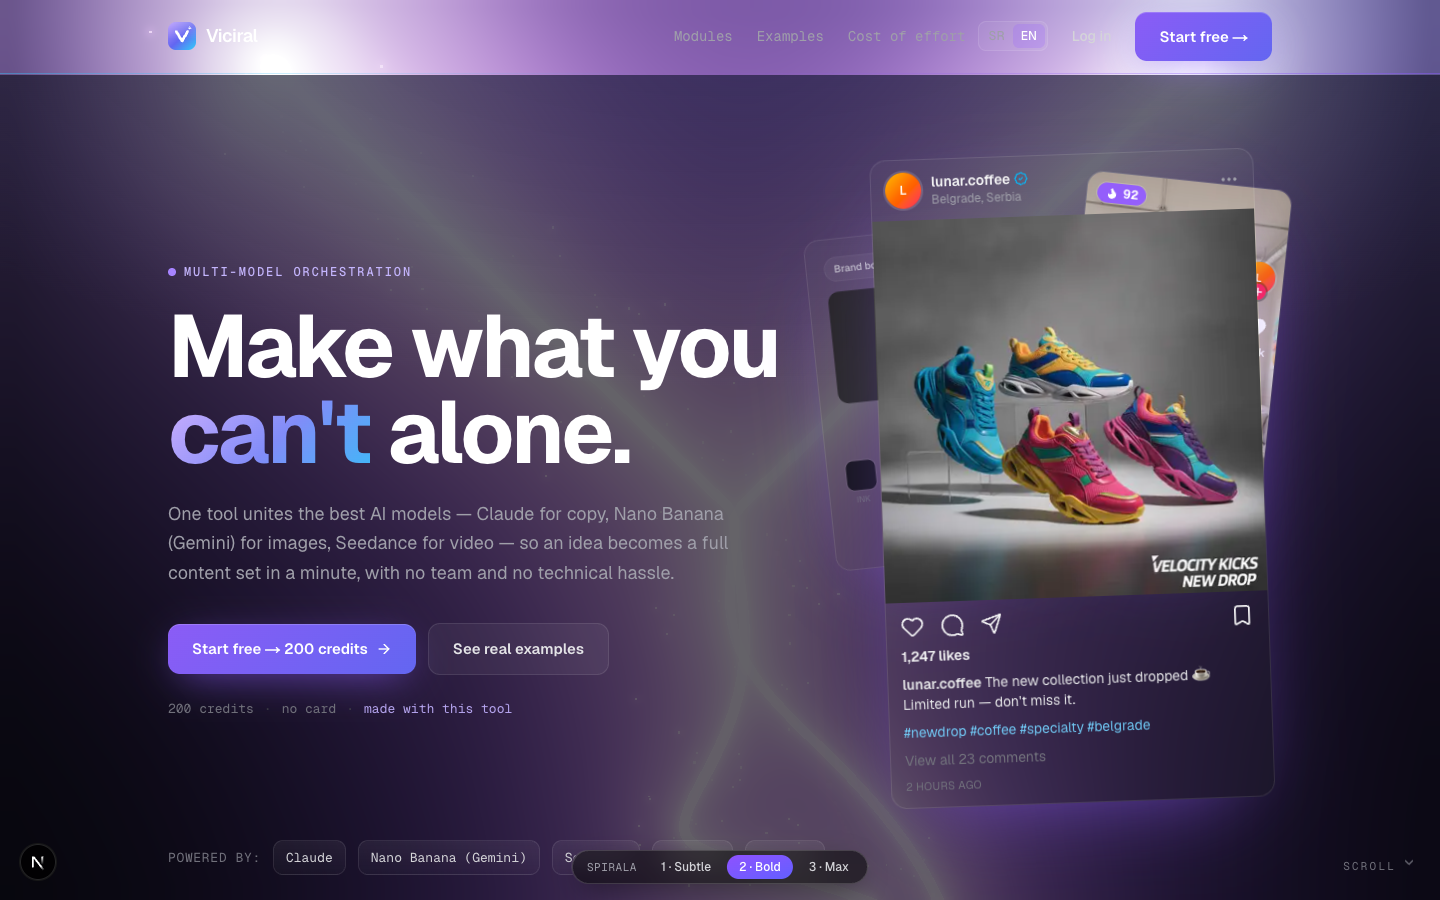
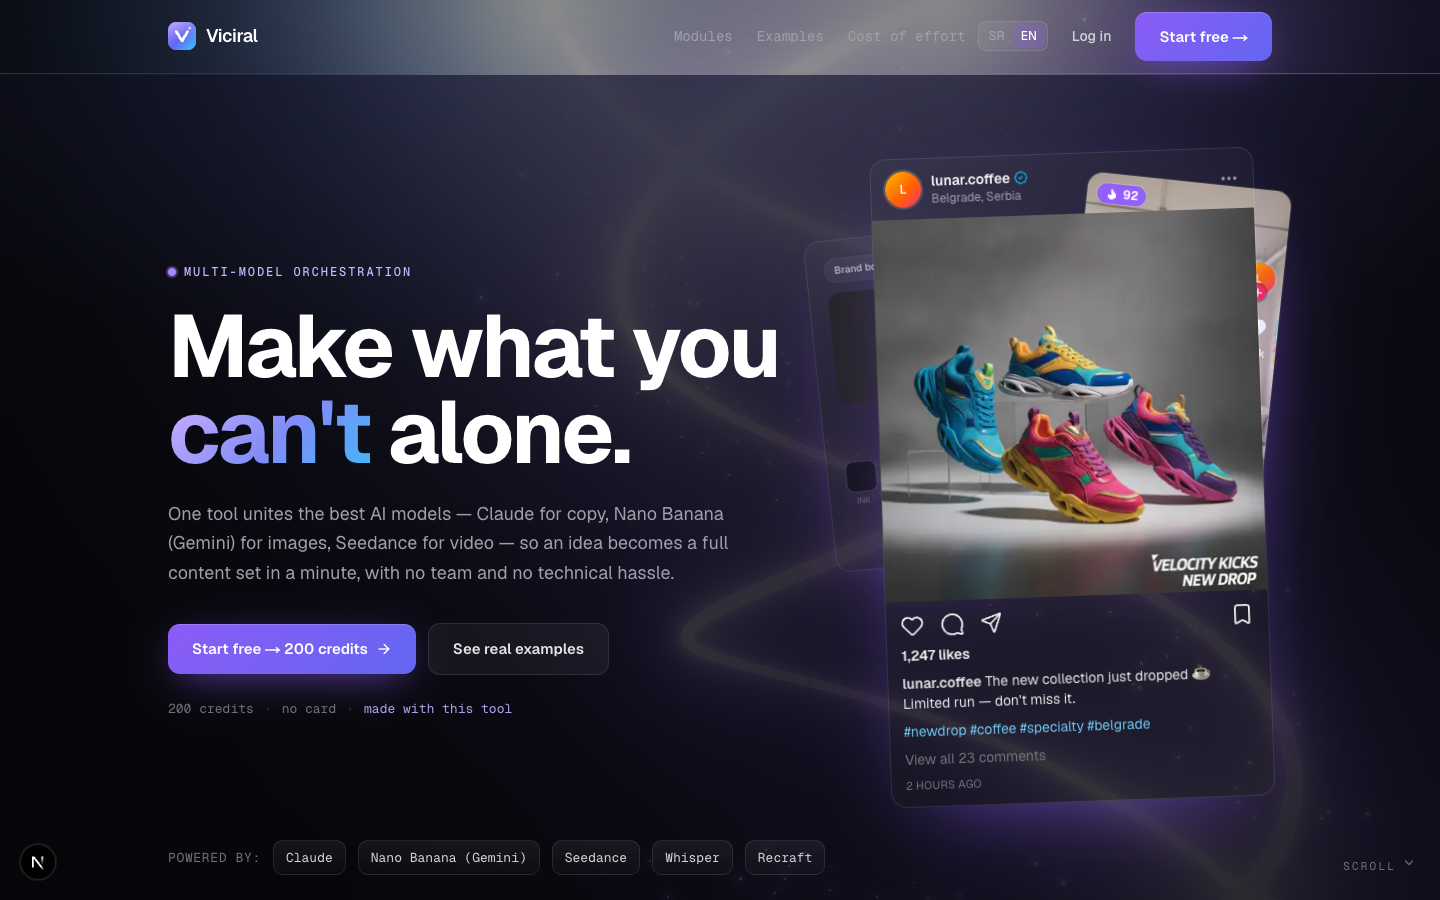
mobile responsivnes fix

diff --git a/components/spiral-canvas.tsx b/components/spiral-canvas.tsx
@@ -10,64 +10,37 @@ import { OutputPass } from "three/examples/jsm/postprocessing/OutputPass.js";
 
 export type SpiralMode = 1 | 2 | 3;
 
-/** Prominence presets driven by the on-page switcher. */
+/** Prominence presets. The spiral renders behind the content and glows through. */
 const MODES: Record<SpiralMode, { bloom: { s: number; r: number }; bright: number }> = {
-  1: { bloom: { s: 1.0, r: 0.7 }, bright: 0.7 }, // subtle accent behind content
-  2: { bloom: { s: 1.7, r: 0.9 }, bright: 1.15 }, // bold, still behind content
-  3: { bloom: { s: 1.7, r: 0.85 }, bright: 1.3 }, // max — rendered in front (screen blend)
+  1: { bloom: { s: 0.9, r: 0.7 }, bright: 0.62 }, // subtle accent
+  2: { bloom: { s: 1.25, r: 0.82 }, bright: 0.8 }, // bold (kept off the white-clip knee so text reads)
+  3: { bloom: { s: 1.6, r: 0.9 }, bright: 1.05 }, // max
 };
 
 const LENGTH = 4800;
+const TOP_Y = 260; // where the top of the helix sits at scroll 0
 const RADIUS = 158;
 const SWAY = 245;
 const COILS = 13;
 const RADIAL = 12;
 const TUBULAR = 1100;
 
-const C_A = new THREE.Color("#c084fc");
+const C_A = new THREE.Color("#a78bfa");
 const C_B = new THREE.Color("#6366f1");
-const C_C = new THREE.Color("#22d3ee");
+const C_C = new THREE.Color("#38bdf8");
 
-// The two strands trace the two arms of the logo "V" at the top, meet at the
-// vertex, then unspool out of it into the helix below.
-const V_END = 0.1; // fraction of the strand that draws the V
-const V_W = 300; // half-width of the V (arm spread — wide so the arms reach past the hero copy)
-const V_TOP = 250; // y of the arm tops (high, above the headline)
-const V_BOT = -40; // y of the shared vertex (near centre)
-
-function smoothstep(e0: number, e1: number, x: number) {
-  const t = Math.min(1, Math.max(0, (x - e0) / (e1 - e0)));
-  return t * t * (3 - 2 * t);
-}
-
-function buildStrand(tubeRadius: number, phase: number) {
+// A flowing double-helix that descends the page (behind the content). Two strands
+// at opposite phases intertwine; the group translates on scroll so you travel down it.
+function buildStrand(phase: number, tubeRadius: number) {
   const N = 900;
-  const sign = phase < 0.1 ? -1 : 1; // strand A = left arm, strand B = right arm
   const pts: THREE.Vector3[] = [];
   for (let i = 0; i <= N; i++) {
-    const tn = i / N;
-    let x: number;
-    let y: number;
-    let z: number;
-    if (tn < V_END) {
-      // logo "V": straight arm from the top corner down to the shared vertex (0, V_BOT, 0)
-      const k = tn / V_END;
-      x = sign * V_W * (1 - k);
-      y = V_TOP - (V_TOP - V_BOT) * k;
-      z = 0;
-    } else {
-      // helix unspooling out of the vertex (radius/sway grow from 0 so it blossoms smoothly)
-      const u = (tn - V_END) / (1 - V_END);
-      const ramp = smoothstep(0, 0.08, u);
-      const ang = u * COILS * Math.PI * 2 + phase;
-      const r = RADIUS * (0.7 + 0.5 * Math.sin(u * Math.PI * 2.2)) * ramp;
-      const cx = (Math.sin(u * Math.PI * 1.8) * SWAY + Math.sin(u * Math.PI * 7) * 18) * ramp;
-      const cz = Math.cos(u * Math.PI * 1.3) * 60 * ramp;
-      x = cx + Math.cos(ang) * r;
-      y = V_BOT - u * LENGTH;
-      z = cz + Math.sin(ang) * r;
-    }
-    pts.push(new THREE.Vector3(x, y, z));
+    const u = i / N;
+    const ang = u * COILS * Math.PI * 2 + phase;
+    const r = RADIUS * (0.7 + 0.5 * Math.sin(u * Math.PI * 2.2));
+    const cx = Math.sin(u * Math.PI * 1.8) * SWAY + Math.sin(u * Math.PI * 7) * 18;
+    const cz = Math.cos(u * Math.PI * 1.3) * 60;
+    pts.push(new THREE.Vector3(cx + Math.cos(ang) * r, TOP_Y - u * LENGTH, cz + Math.sin(ang) * r));
   }
   const curve = new THREE.CatmullRomCurve3(pts);
   const geo = new THREE.TubeGeometry(curve, TUBULAR, tubeRadius, RADIAL, false);
@@ -103,8 +76,8 @@ const VERT = /* glsl */ `
   }
 `;
 
-// Flowing-energy: gradient along the tube + bright pulses streaming down it + a
-// fresnel rim + a comet around the scroll head. HDR (values > 1) so bloom lights it.
+// Flowing-energy: gradient along the tube + streaming pulses + a fresnel rim + a
+// comet around the scroll head. HDR (values > 1) so bloom lights it up.
 const FRAG = /* glsl */ `
   uniform float uTime;
   uniform float uHead;
@@ -113,7 +86,7 @@ const FRAG = /* glsl */ `
   varying vec2 vUv;
   varying vec3 vN;
   varying vec3 vView;
-  vec3 grad(float t){ return t < 0.5 ? mix(cA, cB, t/0.5) : mix(cB, cC, (t-0.5)/0.5); }
+  vec3 grad(float t){ return t < 0.52 ? mix(cA, cB, t/0.52) : mix(cB, cC, (t-0.52)/0.48); }
   void main(){
     float t = vUv.x;
     vec3 base = grad(t);
@@ -121,10 +94,9 @@ const FRAG = /* glsl */ `
     float pulse = smoothstep(0.0, 0.12, f) * smoothstep(0.55, 0.12, f);
     float head = smoothstep(0.06, 0.0, abs(t - uHead));
     float fres = pow(1.0 - max(dot(normalize(vN), normalize(vView)), 0.0), 2.0);
-    // Extra glow over the logo "V" arms (t near 0) so the mark reads in the hero.
-    float vGlow = smoothstep(0.12, 0.0, t) * 1.05;
-    float bright = (0.7 + 2.8 * pulse + 1.35 * fres + 3.4 * head + vGlow) * uBright;
-    gl_FragColor = vec4(base * bright, 0.92);
+    // Lower peaks (less blown-out white) so it stays a rich coloured glow text can sit over.
+    float bright = (0.6 + 2.2 * pulse + 1.15 * fres + 2.6 * head) * uBright;
+    gl_FragColor = vec4(base * bright, 0.84);
   }
 `;
 
@@ -135,8 +107,8 @@ function Strands({ scrollRef, bright }: { scrollRef: { current: number }; bright
   const matA = useRef<THREE.ShaderMaterial>(null);
   const matB = useRef<THREE.ShaderMaterial>(null);
 
-  const a = useMemo(() => buildStrand(3.2, 0), []);
-  const b = useMemo(() => buildStrand(3.2, Math.PI), []);
+  const a = useMemo(() => buildStrand(0, 3.2), []);
+  const b = useMemo(() => buildStrand(Math.PI, 3.2), []);
   const uniA = useMemo(() => makeUniforms(), []);
   const uniB = useMemo(() => makeUniforms(), []);
   const scratch = useMemo(() => new THREE.Vector3(), []);
@@ -166,26 +138,20 @@ function Strands({ scrollRef, bright }: { scrollRef: { current: number }; bright
 
   useFrame((state) => {
     const p = scrollRef.current;
+    const tt = state.clock.elapsedTime;
     const g = group.current;
     if (g) {
-      // Eased travel — slow at the start so the "V" lingers in the hero, then
-      // the helix unspools as you scroll on.
-      g.position.y = Math.pow(p, 1.35) * LENGTH;
-      const s = 1 + 0.2 * Math.sin(p * Math.PI * 6) * smoothstep(0.12, 0.3, p);
+      g.position.y = Math.pow(p, 1.35) * LENGTH; // travel down it as you scroll
+      const s = 1 + 0.18 * Math.sin(p * Math.PI * 6);
       g.scale.x = s;
       g.scale.z = s;
-      g.position.x = Math.sin(state.clock.elapsedTime * 0.22) * 14;
+      g.position.x = Math.sin(tt * 0.22) * 16;
     }
-    const tt = state.clock.elapsedTime;
-    if (matA.current) {
-      matA.current.uniforms.uTime.value = tt;
-      matA.current.uniforms.uHead.value = p;
-      matA.current.uniforms.uBright.value = bright;
-    }
-    if (matB.current) {
-      matB.current.uniforms.uTime.value = tt;
-      matB.current.uniforms.uHead.value = p;
-      matB.current.uniforms.uBright.value = bright;
+    for (const m of [matA.current, matB.current]) {
+      if (!m) continue;
+      m.uniforms.uTime.value = tt;
+      m.uniforms.uHead.value = p;
+      m.uniforms.uBright.value = bright;
     }
     const clamp = Math.min(Math.max(p, 0.001), 0.999);
     if (headA.current) headA.current.position.copy(a.curve.getPointAt(clamp, scratch));

diff --git a/app/globals.css b/app/globals.css
@@ -27,6 +27,13 @@ body {
   -webkit-font-smoothing: antialiased;
 }
 
+/* Guard against sideways scroll on phones (decorative transforms / wide rows).
+   `clip` (not hidden) keeps the sticky nav working and adds no scroll container.
+   Scoped to <main> so it never clips the sticky header (a sibling). */
+main {
+  overflow-x: clip;
+}
+
 /* Ambient studio glow */
 body::before {
   content: "";
@@ -147,7 +154,7 @@ body::before {
 .section-pit {
   /* Semi-transparent veil (not opaque) so the 3D spiral glows THROUGH the
      section while copy stays readable. Was `var(--pit)` (opaque) — that hid it. */
-  background: color-mix(in srgb, var(--pit) 62%, transparent);
+  background: color-mix(in srgb, var(--pit) 66%, transparent);
 }
 
 /* ---- Fluid display type ---- */
@@ -288,21 +295,26 @@ body::before {
 .card {
   border-radius: 1rem;
   border: 1px solid var(--border);
-  background: var(--surface-1);
+  /* Frosted DARK glass so white text stays readable over the bright spiral. */
+  background: rgba(11, 12, 18, 0.66);
+  backdrop-filter: blur(16px) saturate(125%);
+  -webkit-backdrop-filter: blur(16px) saturate(125%);
   transition:
     transform 0.22s var(--ease-soft),
     border-color 0.22s var(--ease-soft),
     background 0.22s var(--ease-soft);
 }
 .card:hover {
-  background: var(--surface-2);
+  background: rgba(17, 18, 27, 0.74);
   border-color: rgba(255, 255, 255, 0.16);
 }
 .card-glow {
   position: relative;
   border-radius: 1rem;
   border: 1px solid var(--border);
-  background: var(--surface-1);
+  background: rgba(11, 12, 18, 0.66);
+  backdrop-filter: blur(16px) saturate(125%);
+  -webkit-backdrop-filter: blur(16px) saturate(125%);
   transition:
     transform 0.22s var(--ease-soft),
     border-color 0.22s var(--ease-soft),
@@ -312,6 +324,16 @@ body::before {
   transform: translateY(-4px);
   border-color: var(--border-hover);
   box-shadow: 0 24px 70px -36px rgba(139, 92, 246, 0.7);
+}
+/* Frosted DARK glass — dims the bright spiral behind so white text stays readable.
+   Pair with .card / .card-glow (defined later, so this background wins). */
+.card-frost {
+  background: rgba(11, 12, 18, 0.66);
+  backdrop-filter: blur(16px) saturate(125%);
+  -webkit-backdrop-filter: blur(16px) saturate(125%);
+}
+.card-frost:hover {
+  background: rgba(17, 18, 27, 0.74);
 }
 
 /* ---- Chip (mono model/category chip with top-lit edge) ---- */

diff --git a/components/landing/pricing.tsx b/components/landing/pricing.tsx
@@ -122,7 +122,7 @@ export default function Pricing({ locale }: { locale: Locale }) {
         <div className="mt-12 grid gap-4 md:grid-cols-3 md:items-stretch">
           {/* FREE — the lit, primary tier */}
           <Reveal dir="up" delay={60} className="md:order-1 h-full">
-            <article className="card-glow relative flex h-full flex-col p-6 sm:p-7">
+            <article className="card-glow card-frost relative flex h-full flex-col p-6 sm:p-7">
               <div
                 aria-hidden="true"
                 className="bloom is-lit"
@@ -137,7 +137,7 @@ export default function Pricing({ locale }: { locale: Locale }) {
               </div>
 
               <div className="mt-5">
-                <p className="display text-4xl font-bold tracking-tight text-white sm:text-4xl">
+                <p className="text-3xl font-bold tracking-tight text-white sm:text-4xl">
                   {t.free.price}
                 </p>
                 <p className="mono mt-1 text-sm text-zinc-400">{t.free.priceNote}</p>
@@ -162,7 +162,7 @@ export default function Pricing({ locale }: { locale: Locale }) {
 
               <Link
                 href="/signup"
-                className="btn-primary mt-7 w-full"
+                className="btn-primary mt-auto w-full"
                 aria-label={t.free.cta}
               >
                 <Sparkles aria-hidden="true" className="size-4" />
@@ -204,7 +204,7 @@ function PaidTier({
   indicative: string;
 }) {
   return (
-    <article className="card flex h-full flex-col p-6 sm:p-7">
+    <article className="card card-frost flex h-full flex-col p-6 sm:p-7">
       <div className="flex items-center justify-between gap-3">
         <h3 className="text-2xl font-bold text-white">{tier.name}</h3>
         <span className="chip">{tier.badge}</span>
@@ -235,7 +235,7 @@ function PaidTier({
         type="button"
         disabled
         aria-disabled="true"
-        className="btn-ghost mt-7 w-full cursor-not-allowed opacity-60"
+        className="btn-ghost mt-auto w-full cursor-not-allowed opacity-60"
       >
         {tier.cta}
       </button>

diff --git a/components/landing/how-it-works.tsx b/components/landing/how-it-works.tsx
@@ -185,7 +185,7 @@ export default function HowItWorks({ locale }: { locale: Locale }) {
   const t = T[locale];
 
   return (
-    <section aria-labelledby="how-it-works-title" className="section">
+    <section id="how-it-works" aria-labelledby="how-it-works-title" className="section">
       <div className="mx-auto max-w-5xl px-5">
         <Reveal dir="up" className="mb-12 text-center md:mb-16">
           <span className="eyebrow justify-center">
@@ -209,9 +209,9 @@ export default function HowItWorks({ locale }: { locale: Locale }) {
 
           <ol className="relative grid grid-cols-1 gap-6 md:grid-cols-3 md:gap-5">
             {t.steps.map((step, i) => (
-              <li key={step.kicker} className="relative">
-                <Reveal dir="up" delay={i * 80}>
-                  <article className="card-glow relative flex h-full flex-col gap-4 rounded-2xl p-6">
+              <li key={step.kicker} className="relative flex">
+                <Reveal dir="up" delay={i * 80} className="flex w-full">
+                  <article className="card-glow relative flex h-full w-full flex-col gap-4 rounded-2xl p-6">
                     <div className="flex items-center justify-between">
                       <span className="grid h-10 w-10 place-items-center rounded-xl bg-gradient-to-br from-violet-500 to-indigo-500 text-base font-bold text-white shadow-[0_8px_24px_-10px_rgba(139,92,246,0.9)]">
                         {i + 1}

diff --git a/app/page.tsx b/app/page.tsx
@@ -1,6 +1,6 @@
 import { getLocale } from "@/lib/i18n-server";
 import { ScrollFX } from "@/components/scroll-fx";
-import { SpiralController } from "@/components/spiral-controller";
+import { SpiralThread } from "@/components/spiral-thread";
 import SiteNav from "@/components/landing/site-nav";
 import Hero from "@/components/landing/hero";
 import ModelRig from "@/components/landing/model-rig";
@@ -28,9 +28,15 @@ export default async function Home() {
         <div className="aurora__blob aurora__blob--i" />
         <div className="aurora__blob aurora__blob--s" />
       </div>
-      {/* 3D glowing helix + on-page prominence switcher (1 Subtle / 2 Bold / 3 Max) */}
-      <SpiralController />
+      {/* 3D glowing helix behind the content — glows through the page as it descends */}
+      <SpiralThread mode={2} />
       <div className="grain" aria-hidden />
+      {/* Readability scrim over the spiral (behind content) — a base veil so text
+          stays legible over the glow, deepening into a vignette at the edges. */}
+      <div
+        aria-hidden
+        className="pointer-events-none fixed inset-0 z-[1] bg-[radial-gradient(125%_125%_at_50%_40%,rgba(6,7,12,0.36),rgba(2,3,6,0.72))]"
+      />
       <ScrollFX />
 
       <SiteNav locale={locale} />

diff --git a/components/spiral-thread.tsx b/components/spiral-thread.tsx
@@ -9,10 +9,9 @@ import type { SpiralMode } from "@/components/spiral-canvas";
 const SpiralCanvas = dynamic(() => import("@/components/spiral-canvas"), { ssr: false });
 
 /**
- * Full-page glowing helix. Modes 1 & 2 render BEHIND the content (z-0, the
- * canvas is the page background); mode 3 renders in FRONT with `mix-blend-screen`
- * so the light glows over the content edges (max drama). Skipped under
- * prefers-reduced-motion.
+ * Full-page glowing helix rendered BEHIND the content (z-0); the page is
+ * semi-transparent over it (`.section-pit` veil) so the spiral glows through as
+ * it descends the page. Skipped under prefers-reduced-motion.
  */
 export function SpiralThread({ mode = 2 }: { mode?: SpiralMode }) {
   const [show, setShow] = useState(false);
@@ -25,13 +24,8 @@ export function SpiralThread({ mode = 2 }: { mode?: SpiralMode }) {
 
   if (!show) return null;
 
-  const cls =
-    mode === 3
-      ? "pointer-events-none fixed inset-0 z-[5] mix-blend-screen"
-      : "pointer-events-none fixed inset-0 z-0";
-
   return (
-    <div aria-hidden className={cls}>
+    <div aria-hidden className="pointer-events-none fixed inset-0 z-0">
       <SpiralCanvas mode={mode} />
     </div>
   );

diff --git a/components/scroll-fx.tsx b/components/scroll-fx.tsx
@@ -31,13 +31,17 @@ export function ScrollFX() {
     root.classList.add("fx"); // CSS hides [data-fx] until GSAP takes over
 
     const ctx = gsap.context(() => {
+      // On phones, full-width items can't fly in sideways without causing a
+      // horizontal-scroll overflow — keep the scatter (x + rotate) for ≥768px only.
+      const wide = window.matchMedia("(min-width: 768px)").matches;
+
       // assemble — fly in scattered/rotated/scaled, lock into place (scrubbed)
       gsap.utils.toArray<HTMLElement>("[data-fx='assemble']").forEach((el) => {
         const i = Number(el.dataset.i ?? 0);
         const dir = i % 2 === 0 ? -1 : 1;
         gsap.fromTo(
           el,
-          { opacity: 0, xPercent: 9 * dir, yPercent: 14, rotate: 3 * dir, scale: 0.95 },
+          { opacity: 0, xPercent: wide ? 9 * dir : 0, yPercent: 14, rotate: wide ? 3 * dir : 0, scale: 0.95 },
           {
             opacity: 1,
             xPercent: 0,
